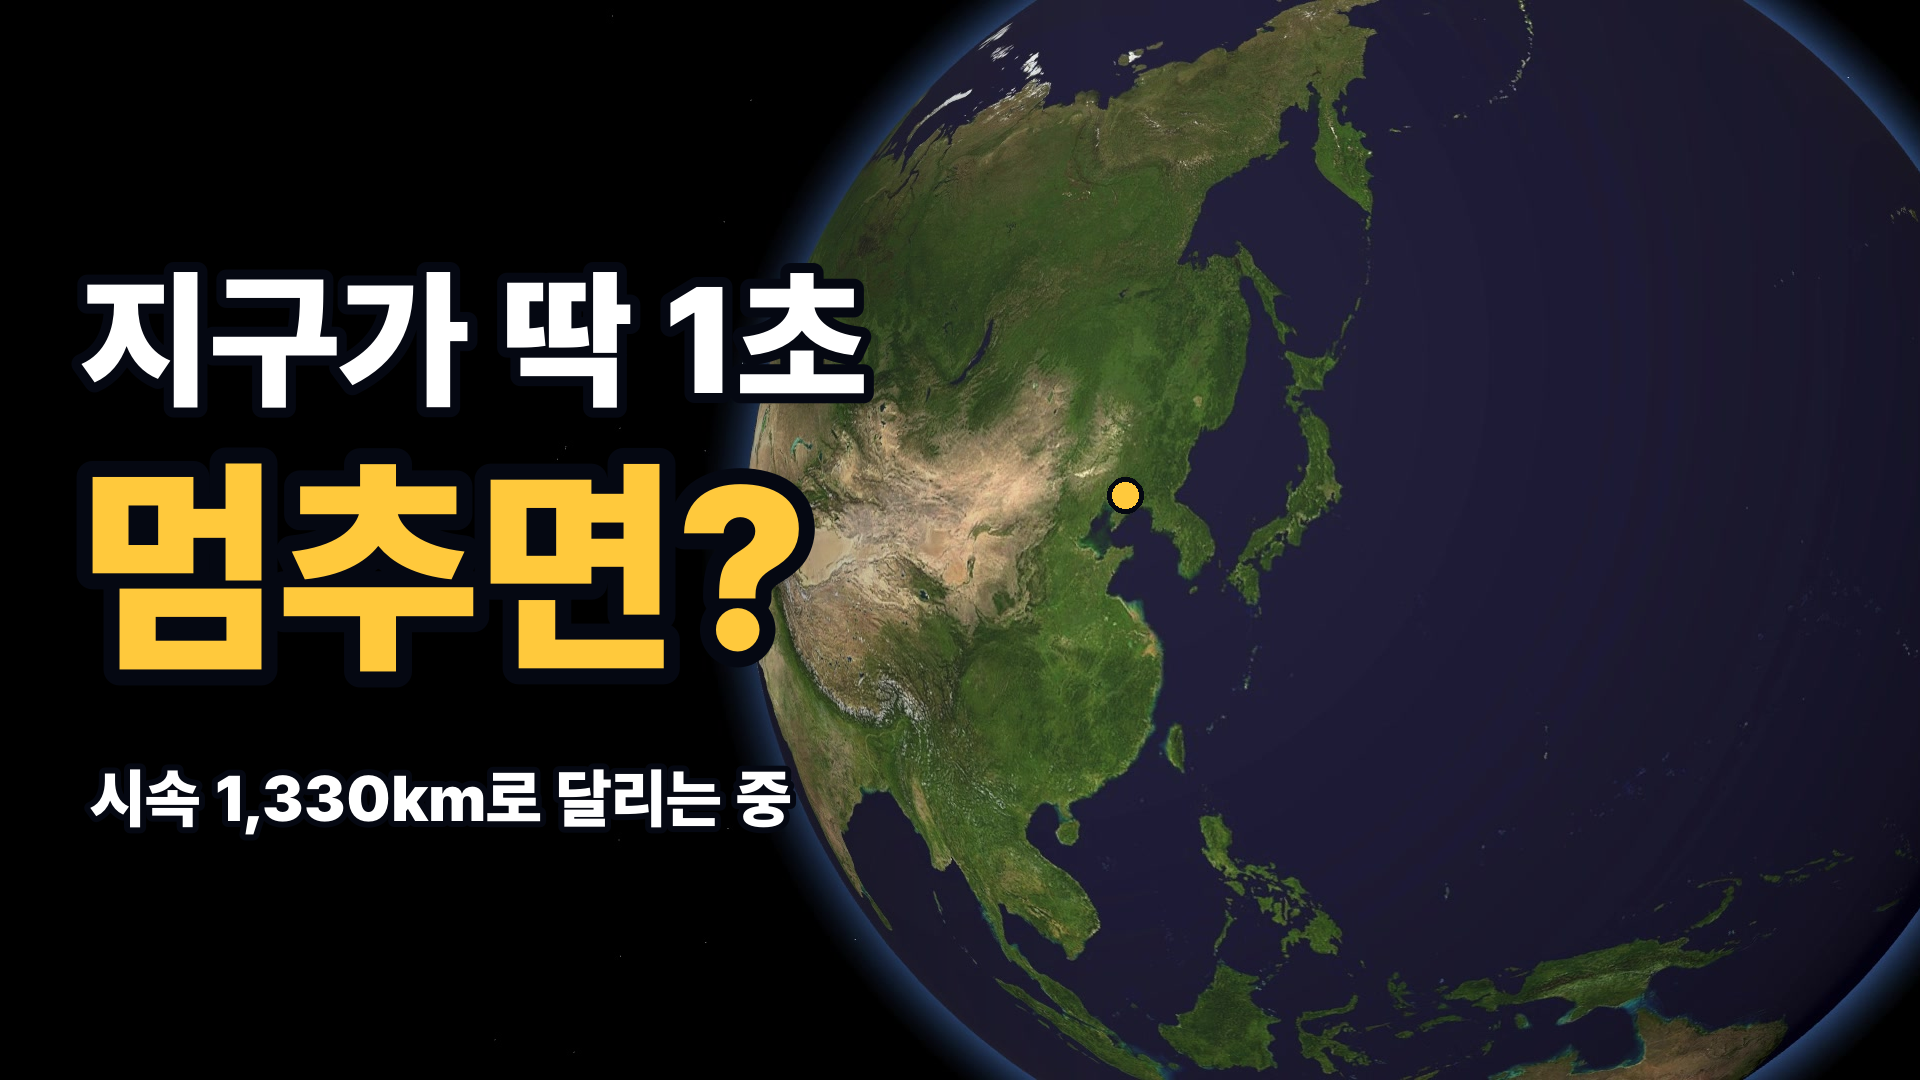
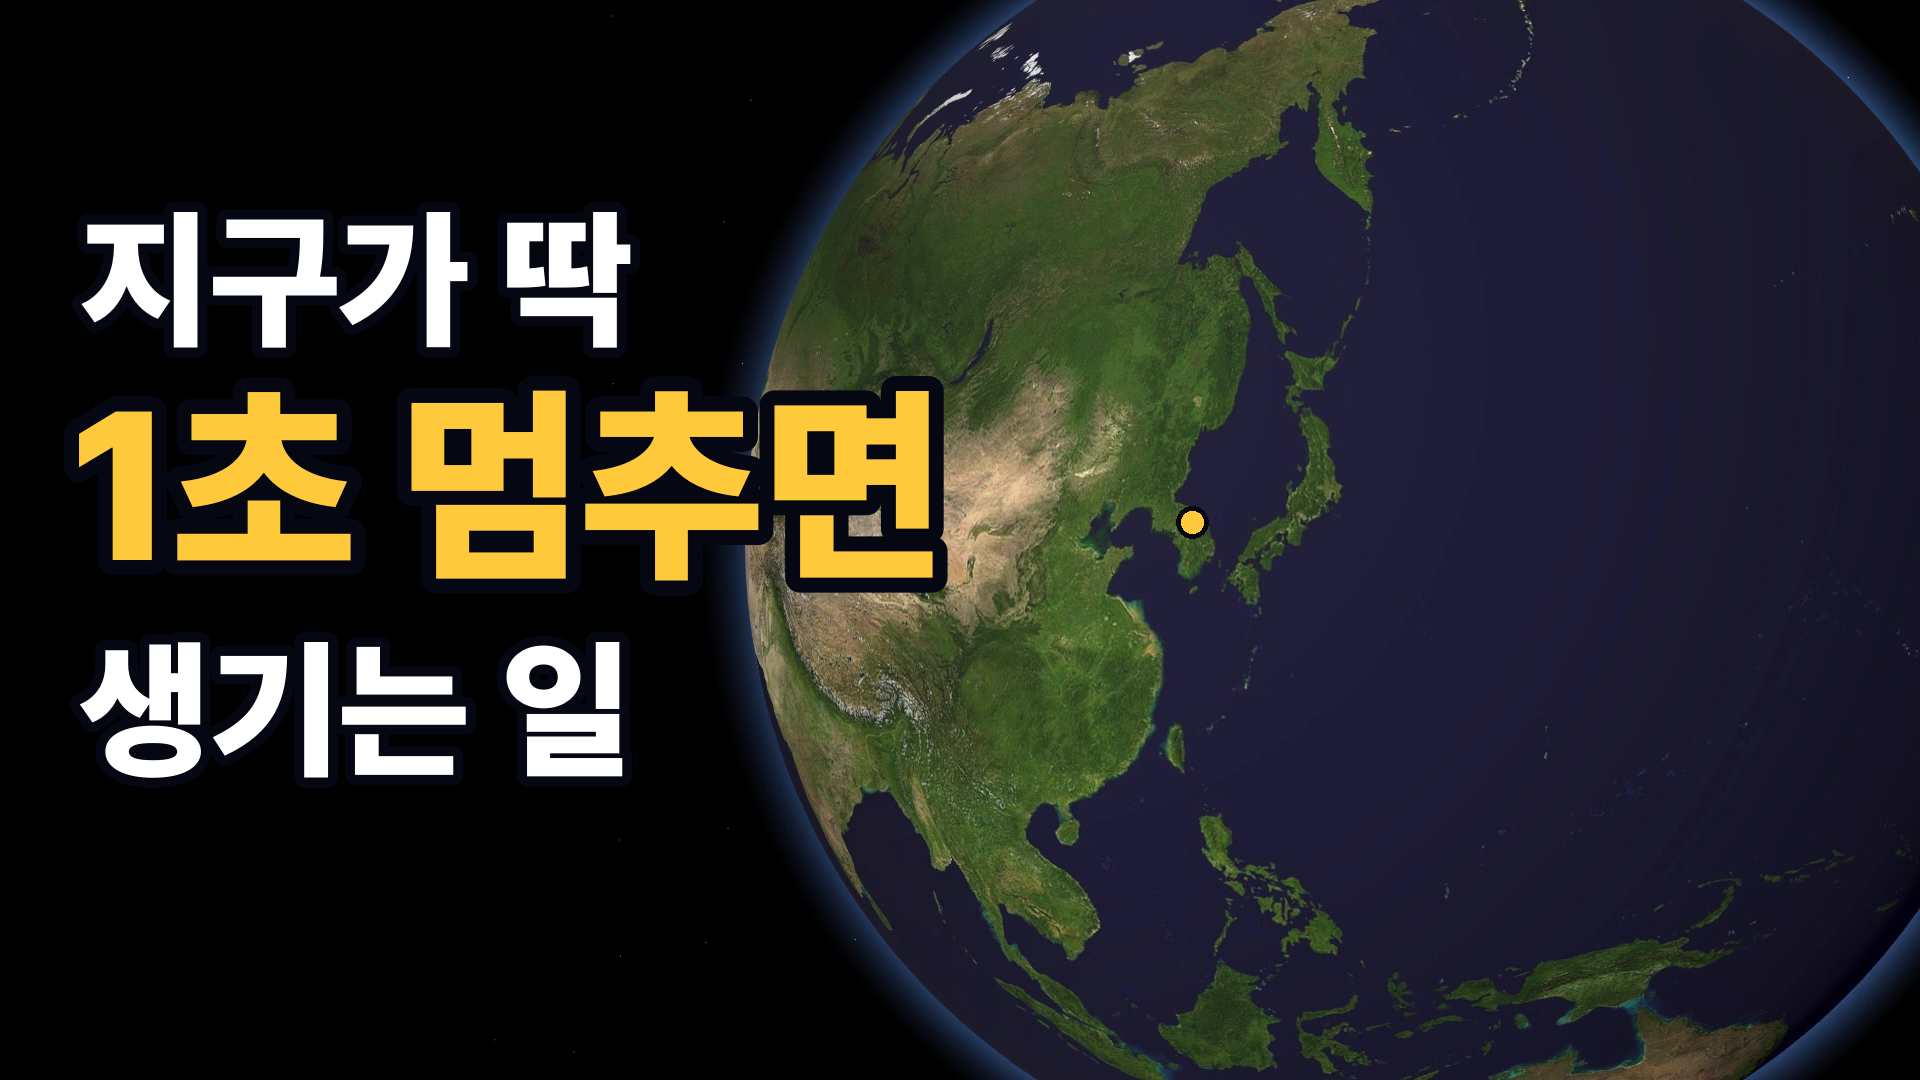
sci07 썸네일 T01 확정: 지구가 딱 / 1초 멈추면(노랑) / 생기는 일 · 서울 점 위치
Claude-Session: https://claude.ai/code/session_01XzgYRsYwxnJKVwoBmLGtiR

Changed region(s): [[0.0312, 0.1833, 0.5, 0.7639], [0.5625, 0.4278, 0.625, 0.5194]]

diff --git a/youtube/tools/thumb_earthstop.py b/youtube/tools/thumb_earthstop.py
@@ -35,10 +35,10 @@ def shade(f, side="left"):
 def t1():
     f = frame("globe")
     f = f.transform(f.size, Image.AFFINE, (1, 0, -430, 0, 1, 0), Image.BICUBIC)
-    d = ImageDraw.Draw(f); d.ellipse((1125 - 18, 495 - 18, 1125 + 18, 495 + 18), fill=Y, outline=(5, 8, 18), width=5)
+    d = ImageDraw.Draw(f); d.ellipse((1192 - 16, 522 - 16, 1192 + 16, 522 + 16), fill=Y, outline=(5, 8, 18), width=5)
     shade(f)
-    txt(f, "지구가 딱 1초", 150, (80, 250)); txt(f, "멈추면?", 230, (80, 430), Y)
-    txt(f, "시속 1,330km로 달리는 중", 64, (90, 760))
+    # 11/27 사용자: '지구가 딱 1초 멈추면 생기는 일' · 중요 부분 노란색
+    txt(f, "지구가 딱", 150, (80, 190)); txt(f, "1초 멈추면", 210, (70, 360), Y); txt(f, "생기는 일", 150, (80, 620))
     return f
 
 
